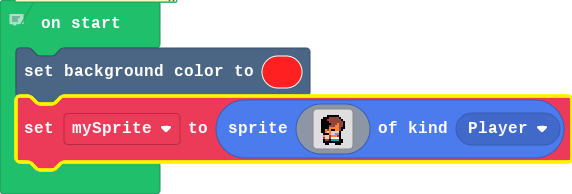
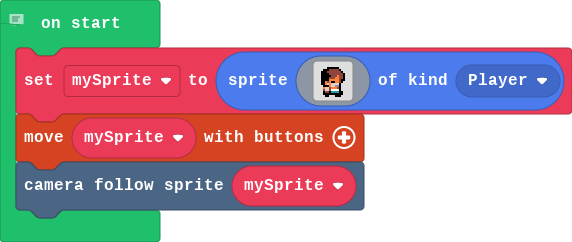
Update pxt.json, main.blocks, main.ts, tilemap.g.jres, tilemap.g.ts

diff --git a/tilemap.g.ts b/tilemap.g.ts
@@ -1,0 +1,66 @@
+// Auto-generated code. Do not edit.
+namespace myTiles {
+    //% fixedInstance jres blockIdentity=images._tile
+    export const transparency16 = image.ofBuffer(hex``);
+    //% fixedInstance jres blockIdentity=images._tile
+    export const tile1 = image.ofBuffer(hex``);
+    //% fixedInstance jres blockIdentity=images._tile
+    export const tile2 = image.ofBuffer(hex``);
+
+    helpers._registerFactory("tilemap", function(name: string) {
+        switch(helpers.stringTrim(name)) {
+            case "level1":
+            case "level1":return tiles.createTilemap(hex`1000100000000000000000000000000000000000000000000000000000000000000000000000000000000000000000000000000000000000000000000000000000000000000000000000000000000000000000000000000000000000000000000000000000000000000000000000000000000000000000000000000000000000000000000000000000000000000000000000000000000000000000000000000000000000000000000000000000000000000000000000000000000000000000000000000000000000000000000000000000000000000000000000000000000000000000000000000000000000000000000000000000000000000000000000000000000000`, img`
+. . . . . . . . . . . . . . . . 
+. . . . . . . . . . . . . . . . 
+. . . . . . . . . . . . . . . . 
+. . . . . . . . . . . . . . . . 
+. . . . . . . . . . . . . . . . 
+. . . . . . . . . . . . . . . . 
+. . . . . . . . . . . . . . . . 
+. . . . . . . . . . . . . . . . 
+. . . . . . . . . . . . . . . . 
+. . . . . . . . . . . . . . . . 
+. . . . . . . . . . . . . . . . 
+. . . . . . . . . . . . . . . . 
+. . . . . . . . . . . . . . . . 
+. . . . . . . . . . . . . . . . 
+. . . . . . . . . . . . . . . . 
+. . . . . . . . . . . . . . . . 
+`, [myTiles.transparency16,myTiles.tile1], TileScale.Sixteen);
+            case "level2":
+            case "level2":return tiles.createTilemap(hex`1000100000000000000000000000000000000000000000000000000000000000000000000000000000000000000000000000000000000000000000000000000000000000000000000000000000000000000000000000000000000000000000000000000000000000000000000000000000000000000000000000000000000000000000000000000000000000000000000000000000000000000000000000000000000000000000000000000000000000000000000000000000000000000000000000000000000000000000000000000000000000010101010101010101010101010101010202020202020202020202020202020201010101010101010101010101010101`, img`
+. . . . . . . . . . . . . . . . 
+. . . . . . . . . . . . . . . . 
+. . . . . . . . . . . . . . . . 
+. . . . . . . . . . . . . . . . 
+. . . . . . . . . . . . . . . . 
+. . . . . . . . . . . . . . . . 
+. . . . . . . . . . . . . . . . 
+. . . . . . . . . . . . . . . . 
+. . . . . . . . . . . . . . . . 
+. . . . . . . . . . . . . . . . 
+. . . . . . . . . . . . . . . . 
+. . . . . . . . . . . . . . . . 
+. . . . . . . . . . . . . . . . 
+. . . . . . . . . . . . . . . . 
+. . . . . . . . . . . . . . . . 
+. . . . . . . . . . . . . . . . 
+`, [myTiles.transparency16,myTiles.tile1,myTiles.tile2], TileScale.Sixteen);
+        }
+        return null;
+    })
+
+    helpers._registerFactory("tile", function(name: string) {
+        switch(helpers.stringTrim(name)) {
+            case "transparency16":return transparency16;
+            case "myTile":
+            case "tile1":return tile1;
+            case "myTile0":
+            case "tile2":return tile2;
+        }
+        return null;
+    })
+
+}
+// Auto-generated code. Do not edit.

diff --git a/main.ts b/main.ts
@@ -1,5 +1,4 @@
 // Don't forget to comment your code as you work!
-scene.setBackgroundColor(2)
 let mySprite = sprites.create(img`
     . . . . . . . . . . . . 
     . . . f f f f f f . . . 
@@ -18,3 +17,5 @@ let mySprite = sprites.create(img`
     . f f f f f f f f f f . 
     . . f f . . . f f f . . 
     `, SpriteKind.Player)
+controller.moveSprite(mySprite)
+scene.cameraFollowSprite(mySprite)
